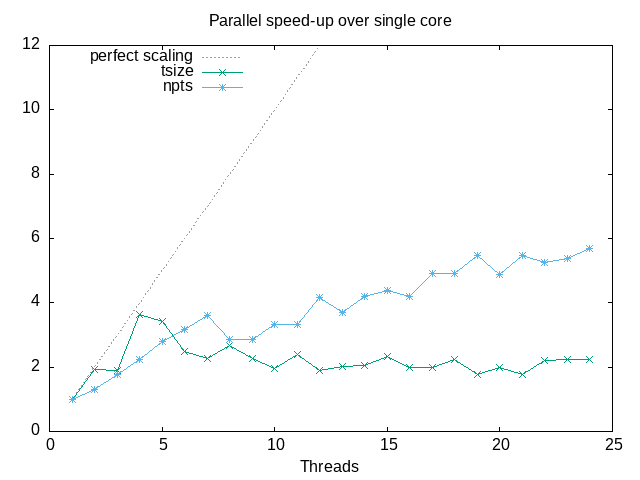
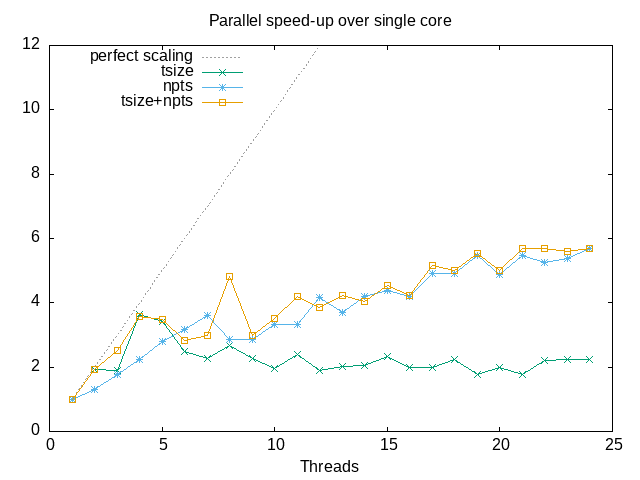
parallelize over both npts and tsize loops
- pre-calculate t factors outside of loop
  - collapse npts and tsize loops into a single openmp loop

diff --git a/libjove/mp/do_mp2.C b/libjove/mp/do_mp2.C
@@ -80,35 +80,39 @@ namespace libjove {
                 ttimer tmain("Main");
                 tmain.start();
 
-// #pragma omp parallel for reduction(+:e_mp2) default(none) shared(tsize, npts, occ, virt, tpts, twts, f_mat, o_i_p_k, v_a_p_k, tcoulomb, out)
+                // pre-calculate t factors
+                std::vector<Eigen::VectorXd> teps_o(tsize, Eigen::VectorXd(occ));
+                std::vector<Eigen::VectorXd> teps_v(tsize, Eigen::VectorXd(virt));
+                std::vector<Eigen::MatrixXd> teps_c;
+                teps_c.reserve(tsize);
                 for (int k = 0; k < tsize; k++){
-                        Eigen::VectorXd teps_o(occ);
                         for (int i = 0; i < occ; i++){
-                            teps_o[i] = pow((double)tpts(0,k), (double) (- f_mat(i,i)));
+                            teps_o[k][i] = pow((double)tpts(0,k), (double) (- f_mat(i,i)));
                         }//for i
 
-                        Eigen::VectorXd teps_v(virt);
                         for (int a = 0; a < virt; a++){
                             int pos_f = a + occ;
-                            teps_v[a] = pow((double)tpts(0,k),
+                            teps_v[k][a] = pow((double)tpts(0,k),
                                             (double) (f_mat(pos_f, pos_f)));
                         }//for a
 
                         double inv_t = 1.0/(double)tpts(0,k);
-                        Eigen::MatrixXd teps_c = teps_o*teps_v.transpose()*inv_t;
+                        teps_c.push_back(teps_o[k]*teps_v[k].transpose()*inv_t);
+                }
 
-                        double e_k = 0;
-                        using VecMap = const Eigen::Map<const Eigen::VectorXd>;
-                        using MatMap = const Eigen::Map<const Eigen::MatrixXd>;
-                        Eigen::VectorXd o_p;
-                        Eigen::VectorXd v_p;
-                        Eigen::MatrixXd c2_p;
-                        #pragma omp parallel for reduction(+:e_k) default(none) firstprivate(o_p, v_p, c2_p) shared(npts, occ, virt, teps_o, teps_v, teps_c, o_i_p_k, v_a_p_k, tcoulomb)
+                using VecMap = const Eigen::Map<const Eigen::VectorXd>;
+                using MatMap = const Eigen::Map<const Eigen::MatrixXd>;
+                Eigen::VectorXd o_p;
+                Eigen::VectorXd v_p;
+                Eigen::MatrixXd c2_p;
+
+#pragma omp parallel for reduction(+:e_mp2) default(none) firstprivate(o_p, v_p, c2_p) shared(tsize, npts, occ, virt, twts, o_i_p_k, v_a_p_k, tcoulomb, teps_o, teps_v, teps_c) collapse(2)
+                for (int k = 0; k < tsize; k++){
                         for (int p = 0; p < npts; p++){
                                 // calculate t^x factors for this p & insert here - avoid copying everything
-                                o_p = VecMap(o_i_p_k.unsafe_col(p).memptr(), occ).cwiseProduct(teps_o);
-                                v_p = VecMap(v_a_p_k.unsafe_col(p).memptr(), virt).cwiseProduct(teps_v);
-                                c2_p = MatMap(tcoulomb.slice(p).memptr(), occ, virt).cwiseProduct(teps_c);
+                                o_p = VecMap(o_i_p_k.unsafe_col(p).memptr(), occ).cwiseProduct(teps_o[k]);
+                                v_p = VecMap(v_a_p_k.unsafe_col(p).memptr(), virt).cwiseProduct(teps_v[k]);
+                                c2_p = MatMap(tcoulomb.slice(p).memptr(), occ, virt).cwiseProduct(teps_c[k]);
                                 for (int q = 0; q <= p; q++){
                                         // construct Eigen types that are const refs to the armadillo raw data
                                         VecMap o_q = VecMap(o_i_p_k.unsafe_col(q).memptr(), occ);
@@ -130,11 +134,10 @@ namespace libjove {
                                         if(p!=q){
                                                 sum *= 2.0;
                                         }
-                                        e_k += sum;
+                                        e_mp2 += twts(0,k) * sum;
                                 }//for q
                         }//for p
-                        e_mp2 += twts(0,k) * e_k;
-                        out<<"  E_MP2: "<<e_mp2<<" with inc: "<<twts(0,k)*e_k<<" at t-Point, Weight "<<tpts(0,k)<<", "<<twts(0,k)<<" no."<<k+1<<"/"<<tsize<<std::endl;
+                        //out<<"  E_MP2: "<<e_mp2<<" with inc: "<<twts(0,k)*e_k<<" at t-Point, Weight "<<tpts(0,k)<<", "<<twts(0,k)<<" no."<<k+1<<"/"<<tsize<<std::endl;
                 }//for k
 
                 ttrans.print(out);

diff --git a/README.md b/README.md
@@ -26,8 +26,9 @@ See the relevent commit message & changes to the code for more details
 
 The parallel speed-up from each commit to the repo:
 
-- [tsize](https://github.com/ssciwr/jove-performance/commit/301456c5f643a935abef0628a5edc8eb1f8b1b35): parallelize over `tsize`
-- [npts](https://github.com/ssciwr/jove-performance/commit/f87ef27788cc33d5cceb1764b3526e7d9919e983): parallelize over `npts`
+- [tsize](https://github.com/ssciwr/jove-performance/commit/ad5555cd3a866fe4f5891a0213fce31b440d477b): parallelize over `tsize`
+- [npts](https://github.com/ssciwr/jove-performance/commit/6f09110046bd1ca68a2d736ab77a65e66d59357a): parallelize over `npts`
+- [tsize+npts](https://github.com/ssciwr/jove-performance/commit/e82a9dc16f80e09ff8486ef70fcd04b708077fae): parallelize over `tsize` and `npts`
 
 See the relevent commit message & changes to the code for more details
 
